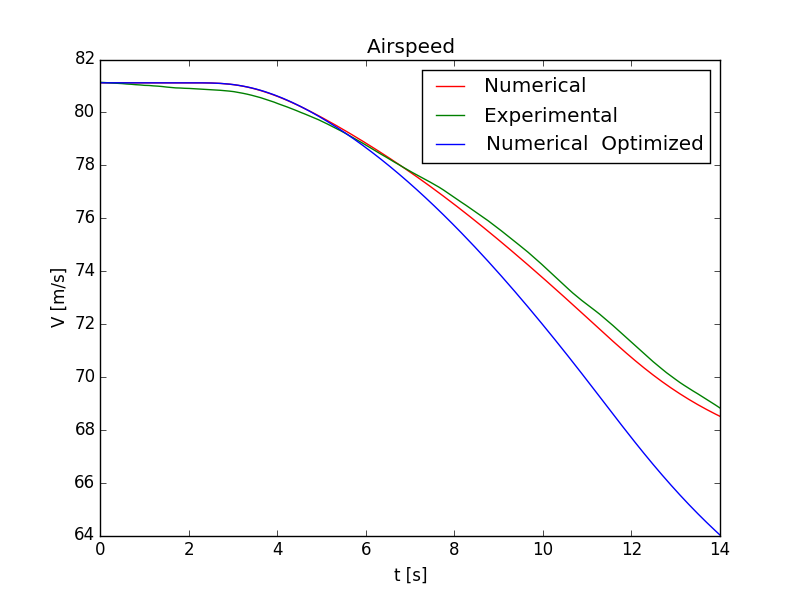
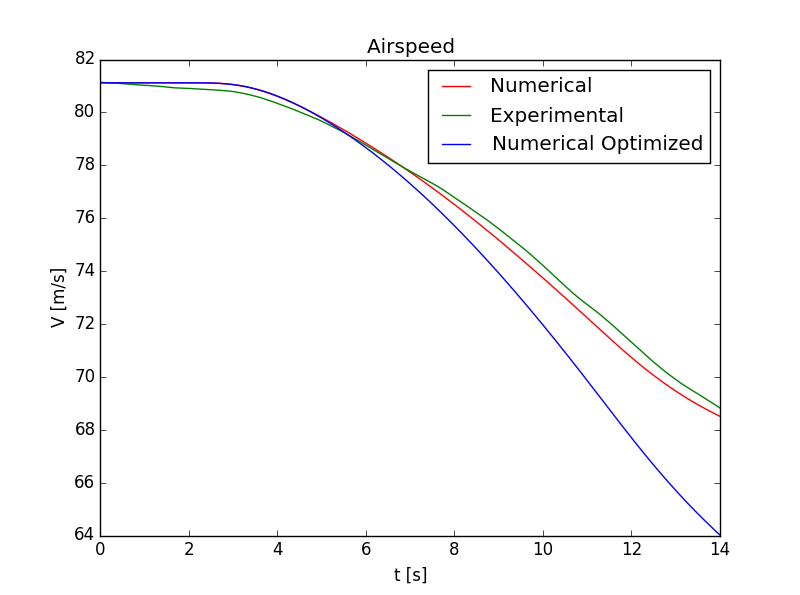
Beep Boop ik ben een robot

Changed region(s): [[0.5938, 0.1815, 0.875, 0.2723], [0.5, 0.121, 0.5625, 0.2723], [0.5938, 0.121, 0.75, 0.1513]]

diff --git a/Numerical_Analysis_Symetric.py b/Numerical_Analysis_Symetric.py
@@ -81,7 +81,7 @@ def Symetric(name):
 #    plt.gca().set_ylim([-1,0])
 #    plt.gca().set_xlim([0,140])    
     plt.title('Airspeed ')
-    plt.plot(t, y1, label="Numerical  Optimized", color="blue")
+    plt.plot(t, y1, label="Numerical Optimized", color="blue")
     plt.ylabel("V [m/s]")
     plt.xlabel("t [s]")
 #    plt.plot(t, name.EAS, label="Experimental", color='green')
@@ -100,11 +100,11 @@ def Symetric(name):
     plt.tick_params(axis="x", labelsize=15)
     plt.tick_params(axis="y", labelsize=15)
     plt.title('Pitch angle')
-    plt.plot(t, y3, label="Numerical  Optimized", color="blue")
+    plt.plot(t, y3, label="Numerical Optimized", color="blue")
     plt.ylabel(r'$\theta$ [deg]')
     plt.xlabel("t [s]")
 #    plt.plot(t, name.PitchAngle, label="Experimental", color='green')
-    plt.legend()
+    plt.legend(loc=2)
     plt.savefig((namem + " Pitch Angle"))
     plt.show()
 
@@ -114,7 +114,7 @@ def Symetric(name):
     plt.tick_params(axis="x", labelsize=15)
     plt.tick_params(axis="y", labelsize=15)
     plt.title('Pitch rate')
-    plt.plot(t, y4, label="Numerical  Optimized", color="blue")
+    plt.plot(t, y4, label="Numerical Optimized", color="blue")
     plt.ylabel(r'$q$ [deg/s]')
     plt.xlabel("t [s]")
 #    plt.plot(t, name.PitchRate, label="Experimental", color='green')
@@ -132,7 +132,6 @@ def Symetric(name):
 #    plt.ylabel("$\delta_e$ [deg]")
 #    plt.xlabel("t [s]")
 #    plt.savefig((namem + " elevatordeflection"))
-#    plt.legend
-    
+#    
 
     
